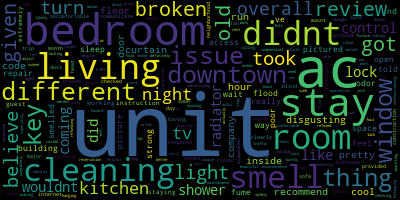
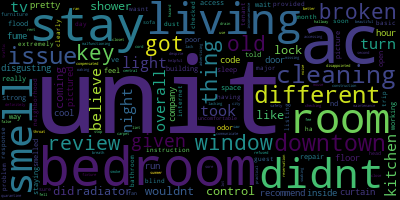
word clouds

diff --git a/reviews/NLP/reviews_base.py b/reviews/NLP/reviews_base.py
@@ -28,7 +28,7 @@ preprocessed = [" ".join(RegexpTokenizer(r'\w+').tokenize(reviews.comments_clean
 from sklearn.feature_extraction.text import TfidfVectorizer
 from sklearn.feature_extraction import text 
 
-custom_stop_words = ['airbnb', 'zencity', 'host', 'null']
+custom_stop_words = ['airbnb', 'zencity', 'host', 'null', 'did']
 my_stop_words = text.ENGLISH_STOP_WORDS.union(custom_stop_words)
 
 vectorizer = TfidfVectorizer(min_df = 1, ngram_range = (1,1), 
@@ -41,7 +41,7 @@ print("Created document-term matrix of size %d x %d" % (tfidf.shape[0],tfidf.sha
 
 from sklearn import decomposition
 import numpy as np
-nmf = decomposition.NMF(init = 'nndsvd', n_components = 4,  max_iter = 500)
+nmf = decomposition.NMF(init = 'nndsvd', n_components = 5,  max_iter = 1000)
 W = nmf.fit_transform(tfidf)
 H = nmf.components_
 print("Generated W(document-topic)) matrix of size %s and H (topic-word) matrix of size %s" % ( str(W.shape), str(H.shape)))
@@ -74,7 +74,7 @@ reviews_topic_all = []
 # reviews_topic6 = []
 # reviews_topic7 = []
 
-for order_id, key, num1, num2, num3, num4 in mylist:
+for order_id, key, num1, num2, num3, num4, num5 in mylist:
     reviews_topic1.append((key, num1))
     reviews_topic_all.append((key, num1))
     reviews_topic2.append((key, num2))
@@ -83,8 +83,8 @@ for order_id, key, num1, num2, num3, num4 in mylist:
     reviews_topic_all.append((key, num3))
     reviews_topic4.append((key, num4))
     reviews_topic_all.append((key, num4))
-    # reviews_topic5.append((key, num5))
-    # reviews_topic_all.append((key, num5))
+    reviews_topic5.append((key, num5))
+    reviews_topic_all.append((key, num5))
     # reviews_topic6.append((key, num6))
     # reviews_topic7.append((key, num7))
 
@@ -92,7 +92,7 @@ reviews_topic1 = sorted(reviews_topic1, key=lambda myword: myword[1], reverse=Tr
 reviews_topic2 = sorted(reviews_topic2, key=lambda myword: myword[1], reverse=True)
 reviews_topic3 = sorted(reviews_topic3, key=lambda myword: myword[1], reverse=True)
 reviews_topic4 = sorted(reviews_topic4, key=lambda myword: myword[1], reverse=True)
-# reviews_topic5 = sorted(reviews_topic5, key=lambda myword: myword[1], reverse=True)
+reviews_topic5 = sorted(reviews_topic5, key=lambda myword: myword[1], reverse=True)
 # reviews_topic_all = sorted(reviews_topic_all, key=lambda myword: myword[1], reverse=True)
 # reviews_topic6 = sorted(reviews_topic6, key=lambda myword: myword[1], reverse=True)
 # reviews_topic7 = sorted(reviews_topic7, key=lambda myword: myword[1], reverse=True)
@@ -118,6 +118,6 @@ draw_wordcloud(dict(reviews_topic1), topic_number=1)
 draw_wordcloud(dict(reviews_topic2), topic_number=2)
 draw_wordcloud(dict(reviews_topic3), topic_number=3)
 draw_wordcloud(dict(reviews_topic4), topic_number=4)
-# draw_wordcloud(dict(reviews_topic5), topic_number=5)
+draw_wordcloud(dict(reviews_topic5), topic_number=5)
 # draw_wordcloud(dict(reviews_topic6), topic_number=6)
 # draw_wordcloud(dict(reviews_topic7), topic_number=7)
